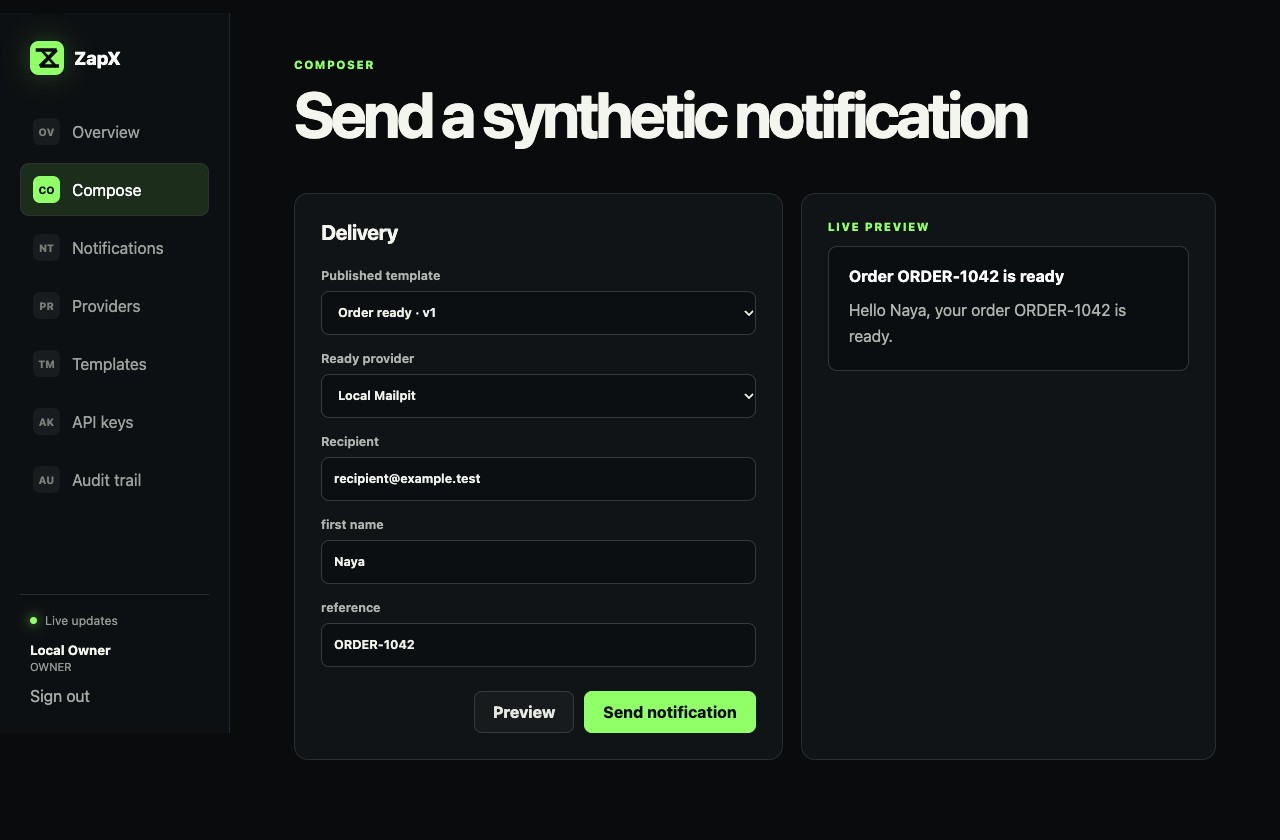
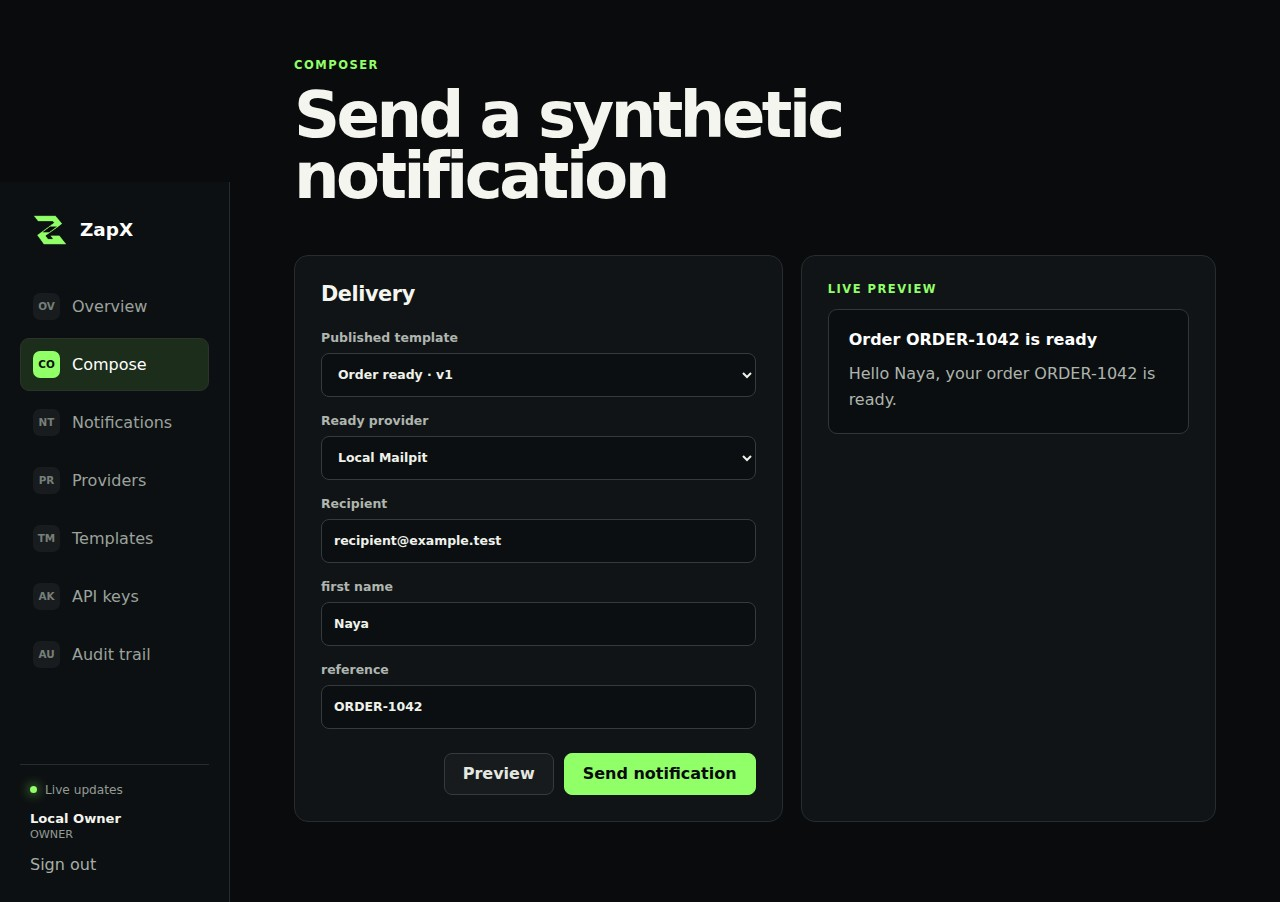
docs: refresh verified ZapX portfolio evidence

diff --git a/README.md b/README.md
@@ -64,7 +64,7 @@ PostgreSQL is authoritative for notification, attempt, idempotency, outbox, iden
 | ------------------------------------------------------------------- | ------------------------------------------------------------------------------- |
 | ![Validated notification preview](docs/images/composer-preview.jpg) | ![Delivered notification attempt timeline](docs/images/notification-detail.jpg) |
 
-The browser test proves the complete path from login and preview through queue processing, SMTP delivery, terminal status, attempt history, audit visibility, and the Mailpit inbox. The full JPG evidence set and a description for every screen are stored in `DevLab/Porto/ZapX/`.
+The browser test proves the complete path from login and preview through queue processing, SMTP delivery, terminal status, attempt history, audit visibility, and the Mailpit inbox. CI retains the complete JPG set as the `zapx-browser-evidence` workflow artifact; the curated repository images and `DevLab/Porto/ZapX/` evidence were captured from that same verified journey.
 
 ## Engineering decisions
 
